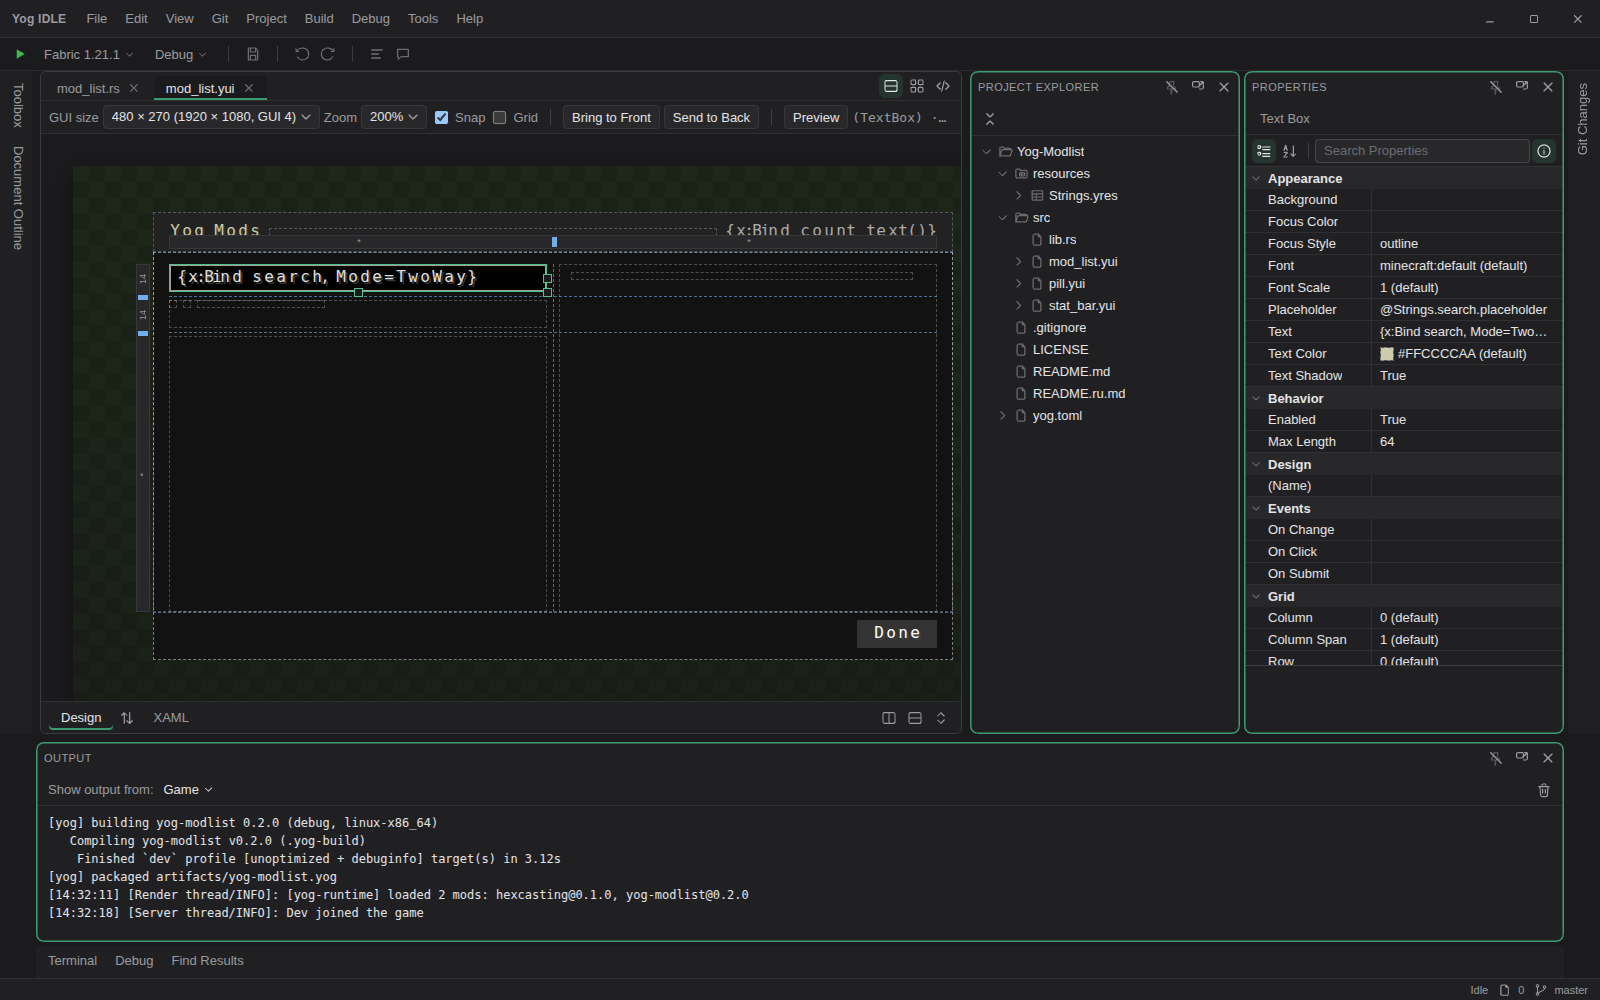
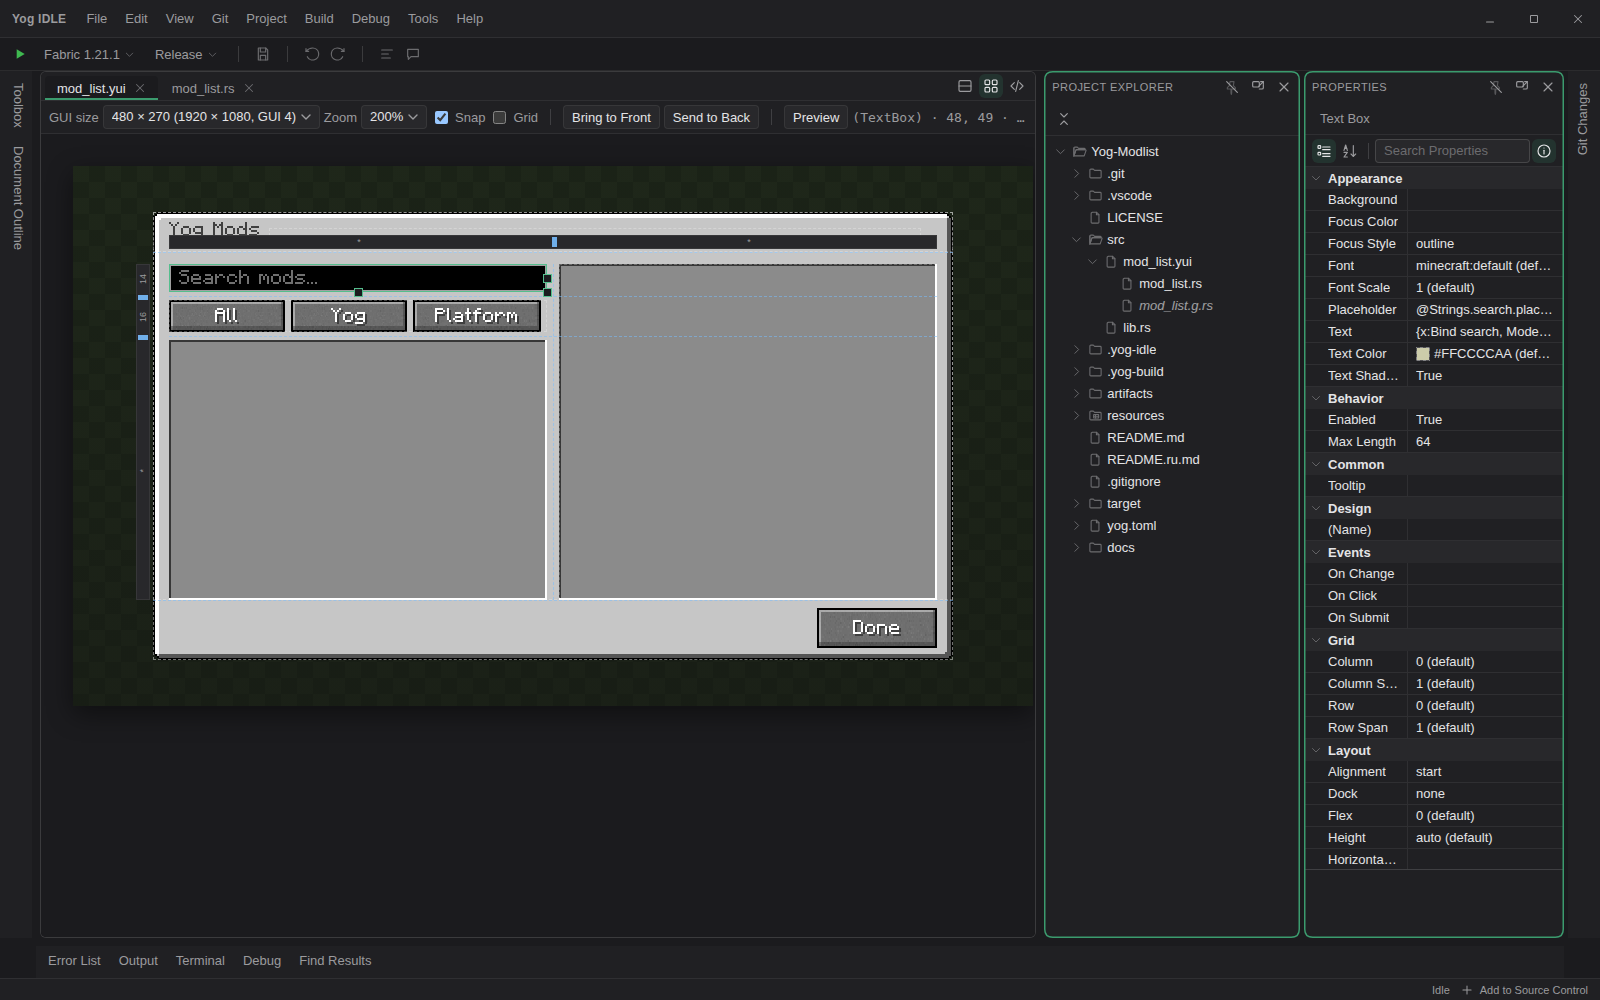
docs: fresh screen designer screenshots, in English and Russian
The mod browser as the designer draws it now: the vanilla theme, its
styles and placeholders.

Claude-Session: https://claude.ai/code/session_01Y7VLwYQtchQvbW1FAXAoxW

diff --git a/README.ru.md b/README.ru.md
@@ -38,7 +38,7 @@
 React), построенное на [Substrate Platform](https://github.com/F000NKKK/Substrate-Platform) —
 универсальном ядре IDE с док-оболочкой, редакторами и виджетами.
 
-<p align="center"><img src="docs/images/overview.png" alt="Yog-IDLE с открытым Yog-Modlist: mod_list.yui в дизайнере экранов, обозреватель проекта, свойства и вывод" width="900"></p>
+<p align="center"><img src="docs/images/overview-ru.png" alt="Yog-IDLE с открытым Yog-Modlist: mod_list.yui в дизайнере экранов, выделено поле поиска, обозреватель проекта и свойства" width="900"></p>
 
 ### 🎯 Почему Yog-IDLE?
 
@@ -79,7 +79,7 @@ React), построенное на [Substrate Platform](https://github.com/F000
   подсказку
 - **Ctrl+колесо** (или щипок) масштабирует вокруг курсора, до 800%
 
-<p align="center"><img src="docs/images/screen-designer.png" alt="Дизайнер экранов: mod_list.yui в режиме «Дизайн + XAML», выделен внешний Grid, слева панель элементов, справа свойства" width="900"></p>
+<p align="center"><img src="docs/images/screen-designer-ru.png" alt="Дизайнер экранов: mod_list.yui в режиме «Дизайн + XAML», выделен внешний Grid, слева панель элементов, справа свойства" width="900"></p>
 
 ### 📕 Дизайнер книг (`.ybook`)
 - Книгу-руководство рисует сам yog-book — тот же рендерер, что в игре, — шрифтом

diff --git a/README.md b/README.md
@@ -38,7 +38,7 @@ It is a [Tauri](https://tauri.app/) app (Rust backend, React frontend) built
 on [Substrate Platform](https://github.com/F000NKKK/Substrate-Platform), a
 generic IDE core with a docking shell, editors and widgets.
 
-<p align="center"><img src="docs/images/overview.png" alt="Yog-IDLE with Yog-Modlist open: mod_list.yui in the screen designer, Project Explorer, Properties and Output" width="900"></p>
+<p align="center"><img src="docs/images/overview.png" alt="Yog-IDLE with Yog-Modlist open: mod_list.yui in the screen designer with the search box selected, Project Explorer and Properties" width="900"></p>
 
 ### 🎯 Why Yog-IDLE?
 
